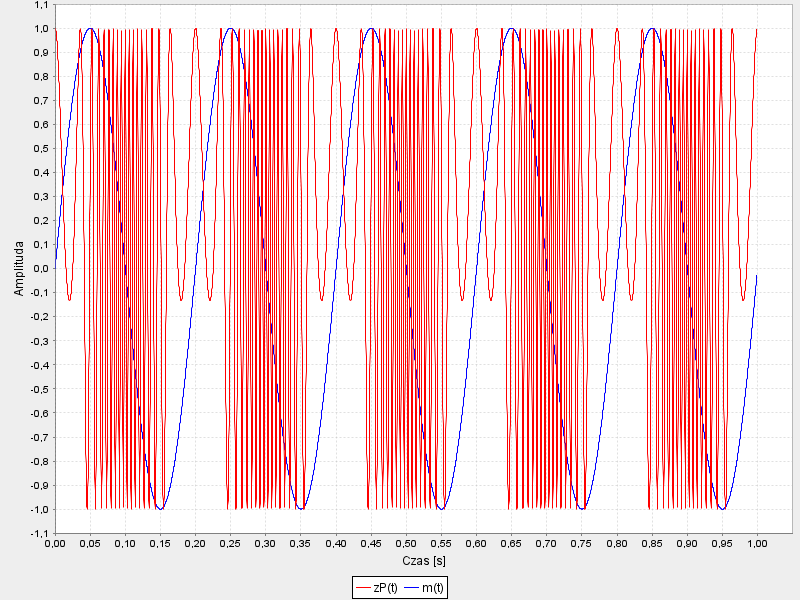
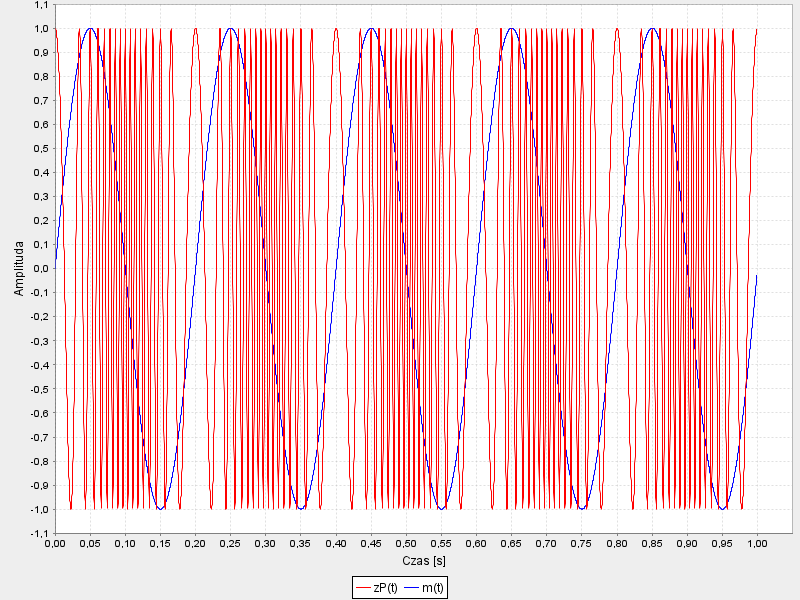
refactor lab5

Changed region(s): [[0.0625, 0.03, 0.9375, 0.87]]

diff --git a/src/Lab5/Zad1.java b/src/Lab5/Zad1.java
@@ -1,7 +1,89 @@
+//Rafał Grzelak
 package Lab5;
+
+import Chart.Chart;
+import org.apache.commons.math3.complex.Complex;
+import org.apache.commons.math3.transform.DftNormalization;
+import org.apache.commons.math3.transform.FastFourierTransformer;
+import org.apache.commons.math3.transform.TransformType;
+import org.jfree.data.xy.XYSeries;
+
+import java.util.HashMap;
+import java.util.Map;
 
 public class Zad1 {
     public static void main(String[] args) {
+        int fs = 1024;
+        int T = 1;
+        int N = fs * T;
+        double Ts = 1.0 / fs;
 
+        double fm = 5;
+        double fn = 300;
+
+        char[] C = {'a', 'b', 'c'};
+        char[] Z = {'A', 'P', 'F'};
+        int[] B = {3, 6, 10};
+
+        double[] kA = {0.5, 10, 40};
+        double[] kP = {-4.0 * Math.PI, 5.0 * Math.PI, 4.0 * Math.PI};
+        double[] kF = {-4.0 * Math.PI, 5.0 * Math.PI, 4.0 * Math.PI};
+
+        Map<Character, double[]> K = new HashMap<>();
+        K.put('a', kA);
+        K.put('b', kP);
+        K.put('c', kF);
+
+        double[] m = new double[N];
+        XYSeries mSeries = new XYSeries("m(t)");
+        for (int i = 0; i < N; i++) {
+            double t = i * Ts;
+            m[i] = Math.sin(2 * Math.PI * fm * t);
+            mSeries.add(t, m[i]);
+        }
+
+        for (int o = 0; o < 3; o++) {
+            for (char c : C) {
+                double k = K.get(c)[o];
+                double[] z = new double[N];
+                XYSeries series = new XYSeries("z" + c + "(t)");
+                for (int i = 0; i < N; i++) {
+                    double t = i * Ts;
+                    switch (Z[o]) {
+                        case 'A':
+                            z[i] = (k * m[i] + 1) * Math.cos(2 * Math.PI * fn * t);
+                            break;
+                        case 'P':
+                            z[i] = Math.cos(2 * Math.PI * fn * t + k * m[i]);
+                            break;
+                        case 'F':
+                            z[i] = Math.cos(2 * Math.PI * fn * t + (k / fm) * m[i]);
+                            break;
+                    }
+                    series.add(t, z[i]);
+                }
+                Chart.saveChart(series, mSeries, "Czas [s]", "Amplituda", "src/Lab5/plots/" + c + "-z" + Z[o] + ".png");
+
+                XYSeries MSeries = new XYSeries(c + "M");
+                FastFourierTransformer fft = new FastFourierTransformer(DftNormalization.STANDARD);
+
+                Complex[] complex = fft.transform(z, TransformType.FORWARD);
+
+                for (int i = 0; i <= fs / 2.0; i++) {
+                    double fr = i * ((double) fs / N);
+
+                    double Re = complex[i].getReal();
+                    double Im = complex[i].getImaginary();
+
+                    double complexi = Math.sqrt(Math.pow(Re, 2) + Math.pow(Im, 2));
+                    double dB = 10.0 * Math.log10(complexi);
+
+                    double prog = -100;
+
+                    MSeries.add(fr, Math.max(dB, prog));
+                }
+                Chart.saveChart(MSeries, "Częstotliwość [Hz]", "Amplituda [dB]", "src/Lab5/plots/" + c + "-M" + Z[o] + ".png");
+            }
+        }
     }
 }

diff --git a/src/Lab4/Zad1.java b/src/Lab4/Zad1.java
@@ -20,8 +20,8 @@ public class Zad1 {
 
         for (int o = 0; o < 3; o++) {
             double[] kA = {0.5, 10, 40};
-            double[] kP = {-20, 5.0 * Math.PI, -10.0 * Math.PI};
-            double[] kF = {-20, 5.0 * Math.PI, -10.0 * Math.PI};
+            double[] kP = {-4.0 * Math.PI, 5.0 * Math.PI, 4.0 * Math.PI};
+            double[] kF = {-4.0 * Math.PI, 5.0 * Math.PI, 4.0 * Math.PI};
             char[] c = {'a', 'b', 'c'};
 
             double[] m = new double[N];
@@ -82,9 +82,9 @@ public class Zad1 {
                 zFMSeries.add(fr, zFcidB > prog ? zFcidB : prog);
             }
 
-            Chart.saveChart(zAMSeries, "Czas [s]", "Amplituda [dB]", "src/Lab4/plots/" + c[o] +"-MzAt.png" ,true);
-            Chart.saveChart(zPMSeries, "Czas [s]", "Amplituda [dB]", "src/Lab4/plots/" + c[o] +"-MzPt.png",  true);
-            Chart.saveChart(zFMSeries, "Czas [s]", "Amplituda [dB]", "src/Lab4/plots/" + c[o] +"-MzFt.png", true);
+            Chart.saveChart(zAMSeries, "Częstotliwość [Hz]", "Amplituda [dB]", "src/Lab4/plots/" + c[o] +"-MzAt.png" );
+            Chart.saveChart(zPMSeries, "Częstotliwość [Hz]", "Amplituda [dB]", "src/Lab4/plots/" + c[o] +"-MzPt.png");
+            Chart.saveChart(zFMSeries, "Częstotliwość [Hz]", "Amplituda [dB]", "src/Lab4/plots/" + c[o] +"-MzFt.png");
         }
 
     }
